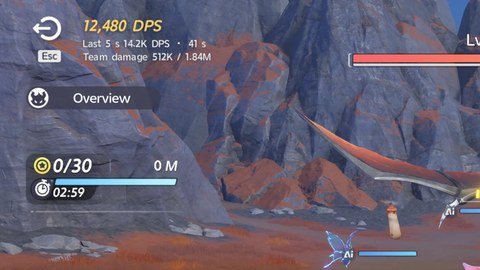
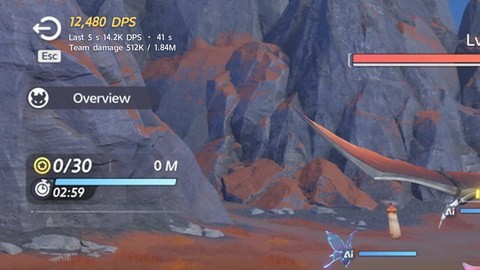
DPS window: new default spots from the game's HUD layout, clear of its tips, Settle Early and messages; new example pictures
Overworld: centred between the minimap's icons and the boss bar, higher, 85% size; 'under the quest list' replaced by
top right. Interlink 'panel' moved below Settle Early. Dragged spots start over (new keys). tools/placement_examples.py
draws the menu pictures.

Changed region(s): [[0.125, 0.0593, 0.4375, 0.237]]

diff --git a/app/ui/index.html b/app/ui/index.html
@@ -142,23 +142,23 @@
         </div>
         <div class="group">
           <h2>Placement</h2>
-          <p class="hint">Where the DPS window sits in each mode. Unlock it to drag it anywhere; it remembers that per mode.</p>
+          <p class="hint">Where the DPS window sits in each mode. Each spot keeps clear of where the game shows its own notes and tips (Settle Early, the tips next to the minimap, messages at the top). Unlock it to drag it anywhere; it remembers that per mode.</p>
           <label class="toggle"><input type="checkbox" data-k="overlay.dps_locked"><span></span>
             <div><strong>Lock the DPS window</strong><small>Locked, it stays put and your clicks go through it to the game. Unlock it to drag it somewhere else, then lock it again.</small></div></label>
           <div class="row"><button type="button" data-dps-reset>Put the DPS window back in its default spots</button></div>
           <h3 class="mode-head">Overworld</h3>
           <div class="picks">
             <label class="pick"><input type="radio" name="world_position" value="map" data-k="overlay.world_position">
-              <img src="img/world-map.jpg" alt="DPS window right of the minimap"><span>Right of the minimap</span></label>
-            <label class="pick"><input type="radio" name="world_position" value="quests" data-k="overlay.world_position">
-              <img src="img/world-quests.jpg" alt="DPS window under the quest list"><span>Under the quest list</span></label>
+              <img src="img/world-map.jpg" alt="DPS window between the minimap and the boss bar"><span>Between the minimap and the boss bar (default)</span></label>
+            <label class="pick"><input type="radio" name="world_position" value="right" data-k="overlay.world_position">
+              <img src="img/world-right.jpg" alt="DPS window top right, under the game's buttons"><span>Top right, under the game's buttons</span></label>
           </div>
           <h3 class="mode-head">Interlink</h3>
           <div class="picks">
             <label class="pick"><input type="radio" name="rush_position" value="corner" data-k="overlay.rush_position">
-              <img src="img/rush-corner.jpg" alt="DPS window in the top-left corner, next to Esc"><span>Top-left corner, next to Esc</span></label>
+              <img src="img/rush-corner.jpg" alt="DPS window in the top-left corner, next to Esc"><span>Top-left corner, next to Esc (default)</span></label>
             <label class="pick"><input type="radio" name="rush_position" value="panel" data-k="overlay.rush_position">
-              <img src="img/rush-panel.jpg" alt="DPS window under the stars and timer"><span>Under the stars and timer</span></label>
+              <img src="img/rush-panel.jpg" alt="DPS window under the stars and timer, below Settle Early"><span>Under the stars and timer, below Settle Early</span></label>
           </div>
         </div>
         <div class="group">

diff --git a/app/ui/app.js b/app/ui/app.js
@@ -1744,6 +1744,7 @@
       settings = merge(DEFAULTS, stored);
       showSanctumSwitch(settings.sanctum?.enabled ?? true);
       if (!settings.app.priority) settings.app.priority = "low";   // "Not set" before B8: lower is the default now
+      if (settings.overlay.world_position === "quests") settings.overlay.world_position = "right";   // B9: under the quests is gone
       // the fight rate's default was 60 before B6, now 30: a rate nobody picked is 30
       if (settings.capture.fight_rate !== 30 && !(settings.user_set || []).includes("capture.fight_rate")) settings.capture.fight_rate = 30;
     } catch {

diff --git a/bossbar/live.py b/bossbar/live.py
@@ -3547,16 +3547,33 @@ def run_overlay(meter, hide):
         if BACKDROP:                                  # without the game font: a solid panel (no partial see-through here)
             dc.tag_lower(dc.create_rectangle(0, 0, box[2] + pad, box[3] + pad, fill=BG, outline=''))
         dc.config(width=box[2] + pad, height=box[3] + pad)
-    def show_dps(screen, bossrush, lines=None):
+    # The spots (B9), from the game's own HUD layout (its prefabs, as shares of the 16:9 area: x of the width, y of the
+    # height), placed clear of where the game shows its own notes and tips:
+    #   minimap (0.043-0.144, 0.039-0.218); team panel beside it (0.137-0.264, 0.021-0.069); the AI helper's tips
+    #   under that during boss fights (0.136-0.400, 0.141-0.214); boss bar from x 0.302-0.32; one-line system messages
+    #   top centre (0.381-0.619, 0.148-0.281); Interlink's stars/timer panel to y 0.326 and its Settle Early button
+    #   (0.025-0.194, 0.347-0.391); item and friend toasts on the left from y 0.394-0.455; top right free from x 0.70.
+    MINIMAP_RIGHT, BAR_LEFT = 0.195, 0.32     # the party count and menu icons right of the minimap end at ~0.19
+    MAP_TOP, MAP_SCALE = 0.069, 0.85          # between the team panel and the AI tips: 0.071 tall, so a little smaller
+    def show_dps(screen, bossrush, lines=None, bar=None):
         # the game's HUD is a 16:9 area (centred on ultrawide): spots and text size follow its height, which is the
         # screen's on 16:9 and ultrawide, and the width's 9/16 on 16:10, where the HUD keeps to the top
         ox, oy, W, H = screen; u = min(W, H * 16 / 9); ux = ox + (W - u) / 2; H = u * 9 / 16
+        scale = 1.0
         if bossrush and meter.args.cfg['overlay'].get('rush_position') == 'panel':
-            base, key = (ux + u * 0.024, oy + H * 0.335), 'dps_offset_rush'              # under the stars/timer panel
-        elif bossrush: base, key = (ux + u * 0.068, oy + H * 0.022), 'dps_offset_rush_top'  # top left, right of Esc
-        elif meter.args.cfg['overlay'].get('world_position') == 'quests':
-            base, key = (ux + u * 0.024, oy + H * 0.415), 'dps_offset_world'             # under the quest list
-        else: base, key = (ux + u * 0.168, oy + H * 0.09), 'dps_offset_map'              # right of the minimap
+            base, key = (ux + u * 0.025, oy + H * 0.398), 'dps_offset2_rush'             # under Settle Early
+        elif bossrush: base, key = (ux + u * 0.068, oy + H * 0.022), 'dps_offset2_rush_top'  # top left, right of Esc
+        elif meter.args.cfg['overlay'].get('world_position') in ('right', 'quests'):
+            base, key = (ux + u * 0.705, oy + H * 0.10), 'dps_offset2_right'             # top right, under the buttons
+        else:
+            # right of the minimap: centred in the gap to the boss bar's left end (where the bar is, else where it
+            # usually starts), on a fixed width so it doesn't shift as the numbers change
+            scale = MAP_SCALE
+            left = ux + u * MINIMAP_RIGHT
+            right = bar[0] if bar and left < bar[0] < ux + u * 0.5 else ux + u * BAR_LEFT
+            if dps_at.get('bar_left') is None or abs(dps_at['bar_left'] - right) > H * 0.01: dps_at['bar_left'] = right
+            width = H * 0.21 * scale
+            base, key = (max(left + H * 0.01, (left + dps_at['bar_left']) / 2 - width / 2), oy + H * MAP_TOP), 'dps_offset2_map'
         dps_at['base'], dps_at['h'], dps_at['key'] = base, H, key
         # Overlay › Lock the DPS window: locked, clicks go through it to the game; unlocked, it takes them (to drag it)
         locked = dps_locked()
@@ -3569,8 +3586,8 @@ def run_overlay(meter, hide):
         if reset != pos.get('dps_reset_seen', 0):
             for k in [k for k in pos if k.startswith('dps_offset')]: del pos[k]
             pos['dps_reset_seen'] = reset; save_positions()
-        if lines is not None and lines != dps_at['lines']:
-            dps_at['lines'] = lines; render_stats(lines, H)
+        if lines is not None and (lines != dps_at['lines'] or dps_at.get('scale') != scale):
+            dps_at['lines'] = lines; dps_at['scale'] = scale; render_stats(lines, H * scale)
         x, y = base; off = pos.get(key)
         if off: x += off[0] * H; y += off[1] * H
         if dw.dragging: x, y = dw.winfo_x(), dw.winfo_y()
@@ -3582,7 +3599,7 @@ def run_overlay(meter, hide):
         if not dps_at['shown'] or not meter.last_screen: return
         H = dps_at['h']                                # the HUD height show_dps placed it by
         lines = [(t, '#ffffff' if i else '#ffd36a', 0.0165 if i else 0.02) for i, t in enumerate(text.split('\n')) if t]
-        dps_at['lines'] = lines; render_stats(lines, H)
+        dps_at['lines'] = lines; render_stats(lines, H * dps_at.get('scale', 1.0))   # the spot's size (smaller by the minimap)
         if dps_at.get('img') is not None: present(dw, dps_at['img'], dw.winfo_x(), dw.winfo_y())
     def hide_dps(): park(dw); dps_at['shown'] = False
     def end_note_result(d):
@@ -3817,7 +3834,7 @@ def run_overlay(meter, hide):
 
     def show_fight(d):
         dps_at['bossrush'] = d['bossrush']
-        if show_dps_window: show_dps(d['screen'], d['bossrush'], stat_lines(d))
+        if show_dps_window: show_dps(d['screen'], d['bossrush'], stat_lines(d), d.get('bar'))
         if time.time() - meter.bar_seen < BAR_HIDDEN: show_hp(d); dps_at['hp_up'] = True
 
     poll_error = {'at': 0.0}
@@ -3860,7 +3877,7 @@ def run_overlay(meter, hide):
                     hide_hp()
                     keep = 10 if d['bossrush'] else 0 if d.get('holosim') else meter.args.cfg['overlay'].get('result_seconds', 10)
                     if show_dps_window and dps_at['shown'] and keep > 0:
-                        show_dps(d['screen'], d['bossrush'], final_lines(d)); dps_at['hide_at'] = time.time() + keep
+                        show_dps(d['screen'], d['bossrush'], final_lines(d), d.get('bar')); dps_at['hide_at'] = time.time() + keep
                     elif dps_at['shown']: hide_dps()
                 elif k == 'status' and d.startswith('fight over'):
                     hide_hp()

diff --git a/tools/placement_examples.py b/tools/placement_examples.py
@@ -1,0 +1,57 @@
+"""The DPS window's example pictures in the app (DPS Meter › Overlay › Placement), drawn at the meter's own spots.
+
+    python tools/placement_examples.py <overworld 4K frame> [out folder]
+
+The overworld pictures are a saved 4K fight frame (Captures & logs › Save test pictures) with the DPS window drawn in
+the game font where live.py's show_dps puts it, cropped to the part of the screen it sits in. The Interlink pictures
+start from the two earlier ones in app/ui/img, which share one frame: each is clean where the other had the window, so
+together they give the frame without it. Keep the spot numbers here in step with show_dps."""
+import os, sys
+from PIL import Image
+
+HERE = os.path.dirname(os.path.abspath(__file__))
+sys.path.insert(0, os.path.join(HERE, '..', 'bossbar'))
+import gamefont
+
+FONT = gamefont.GameFont.load(os.path.join(os.environ['LOCALAPPDATA'], 'aLogs', 'meter', 'gamefont'), None)
+LINES = [('12,480 DPS', (255, 211, 106), 0.0235, True), ('Last 5 s 14.2K DPS · 41 s', (255, 255, 255), 0.015, False),
+         ('Team damage 512K / 1.84M', (255, 255, 255), 0.015, False)]
+
+def window(H, scale=1.0):
+    """The DPS window as live.py's compose draws it (no backdrop), for a HUD height H."""
+    H = H * scale; pad = max(3, round(H * 0.004)); parts = []
+    for text, colour, size, big in LINES:
+        px = max(11, round(H * size)); parts.append((FONT.render(text, px, colour, italic=big, bold=big), px))
+    width = max(im.width for im, _ in parts); height = sum(im.height + round(px * 0.04) for im, px in parts)
+    out = Image.new('RGBA', (width + 2 * pad, height + 2 * pad), (0, 0, 0, 0)); y = pad
+    for im, px in parts:
+        out.alpha_composite(im, (pad, y)); y += im.height + round(px * 0.04)
+    return out
+
+def overworld(frame, out):
+    base = Image.open(frame).convert('RGBA'); W, H = base.size; u = min(W, H * 16 / 9); ux = (W - u) / 2
+    # right of the minimap: centred in the gap to the boss bar (0.195-0.32 of the width), smaller (show_dps MAP_*)
+    win = window(H, 0.85); left, right = ux + u * 0.195, ux + u * 0.32
+    x = max(left + H * 0.01, (left + right) / 2 - H * 0.21 * 0.85 / 2)
+    im = base.copy(); im.alpha_composite(win, (round(x), round(H * 0.069)))
+    im.crop((0, 0, W // 2, H // 2)).convert('RGB').resize((480, 270), Image.LANCZOS).save(os.path.join(out, 'world-map.jpg'), quality=90)
+    # top right, under the game's buttons
+    im = base.copy(); im.alpha_composite(window(H), (round(ux + u * 0.705), round(H * 0.10)))
+    im.crop((W // 2, 0, W, H // 2)).convert('RGB').resize((480, 270), Image.LANCZOS).save(os.path.join(out, 'world-right.jpg'), quality=90)
+
+def interlink(old, out):
+    corner, panel = (Image.open(os.path.join(old, n)).convert('RGBA') for n in ('rush-corner.jpg', 'rush-panel.jpg'))
+    clean = corner.copy()
+    clean.paste(panel.crop((50, 0, 300, 75)), (50, 0))     # the corner picture's window, right of Esc, from the other
+    # the crop is the top-left quarter of a 16:9 frame: the HUD is 960 x 540 at this size; drawn 4x and shrunk
+    k = 4; H = 540
+    for name, (fx, fy) in (('rush-corner.jpg', (0.068, 0.022)), ('rush-panel.jpg', (0.025, 0.398))):
+        big = clean.resize((clean.width * k, clean.height * k), Image.LANCZOS)
+        big.alpha_composite(window(H * k), (round(960 * k * fx), round(H * k * fy)))
+        big.resize(clean.size, Image.LANCZOS).convert('RGB').save(os.path.join(out, name), quality=90)
+
+if __name__ == '__main__':
+    out = sys.argv[2] if len(sys.argv) > 2 else os.path.join(HERE, '..', 'app', 'ui', 'img')
+    overworld(sys.argv[1], out)
+    interlink(os.path.join(HERE, '..', 'app', 'ui', 'img'), out)
+    print('saved in', out)

diff --git a/bossbar/settings.py b/bossbar/settings.py
@@ -48,7 +48,7 @@ DEFAULTS = {
         'in_recordings': True,               # overlays show in recordings and screenshots (General Settings; shared
                                              # with Sanctum Helper). Replaced hide_from_capture, its opposite.
         'backdrop': 0,                       # dark panel behind the DPS window, % opacity (0 = none)
-        'world_position': 'map',             # out in the world: 'map' (right of the minimap) or 'quests' (under the quest list)
+        'world_position': 'map',             # out in the world: 'map' (right of the minimap) or 'right' (top right)
         'dps_locked': True,                  # the DPS window can't be dragged, and clicks go through it to the game
         'dps_reset': 0,                      # the app bumps this to put the DPS window back in its default spots
         'rush_position': 'corner',           # Interlink's DPS window: 'corner' (top left, by Esc) or 'panel' (under the stars/timer)
@@ -98,6 +98,7 @@ def load():
     overlay = stored.get('overlay') if isinstance(stored.get('overlay'), dict) else {}
     if 'in_recordings' not in overlay and 'hide_from_capture' in overlay:      # settings from before 0.1.28
         overlay['in_recordings'] = not overlay['hide_from_capture']
+    if overlay.get('world_position') == 'quests': overlay['world_position'] = 'right'   # B9: under the quests is gone
     return _merge(DEFAULTS, stored)
 
 def save(settings):

diff --git a/app/CHANGELOG.md b/app/CHANGELOG.md
@@ -171,6 +171,12 @@ changed for them, not how it was done. Group under the headings that apply: **Ne
   row went away (a menu, the map, a cutscene). It now goes with the icons within about a third of a second and comes
   back as quickly. The button's settings have their own section in General Settings, "The button over the game",
   where you can also pick how quickly it goes: at once, or after 0.15 to 1.5 seconds.
+- **New spots for the DPS window, clear of the game's own notes:** placed from the game's own screen layout, so it
+  no longer covers the tips the game shows next to the minimap during boss fights, Interlink's Settle Early button, or
+  the messages at the top. Out in the world it now sits between the minimap and the boss bar, centred and a little
+  higher (or top right, under the game's buttons, which replaces "under the quest list": quests, items and friend
+  notes appear there). In Interlink, "under the stars and timer" moved below Settle Early. Spots you had dragged start
+  over at the new defaults. New example pictures in DPS Meter › Overlay.
 - **The DPS window shows in screenshots and recordings on Windows 10 again:** to keep the meter from reading its own
   numbers, every overlay was kept out of screen captures there. Now only the HP labels on the boss bar are; the DPS
   window and its notes show in OBS and screenshots like they do on Windows 11. The DPS window also has a lock (on by
